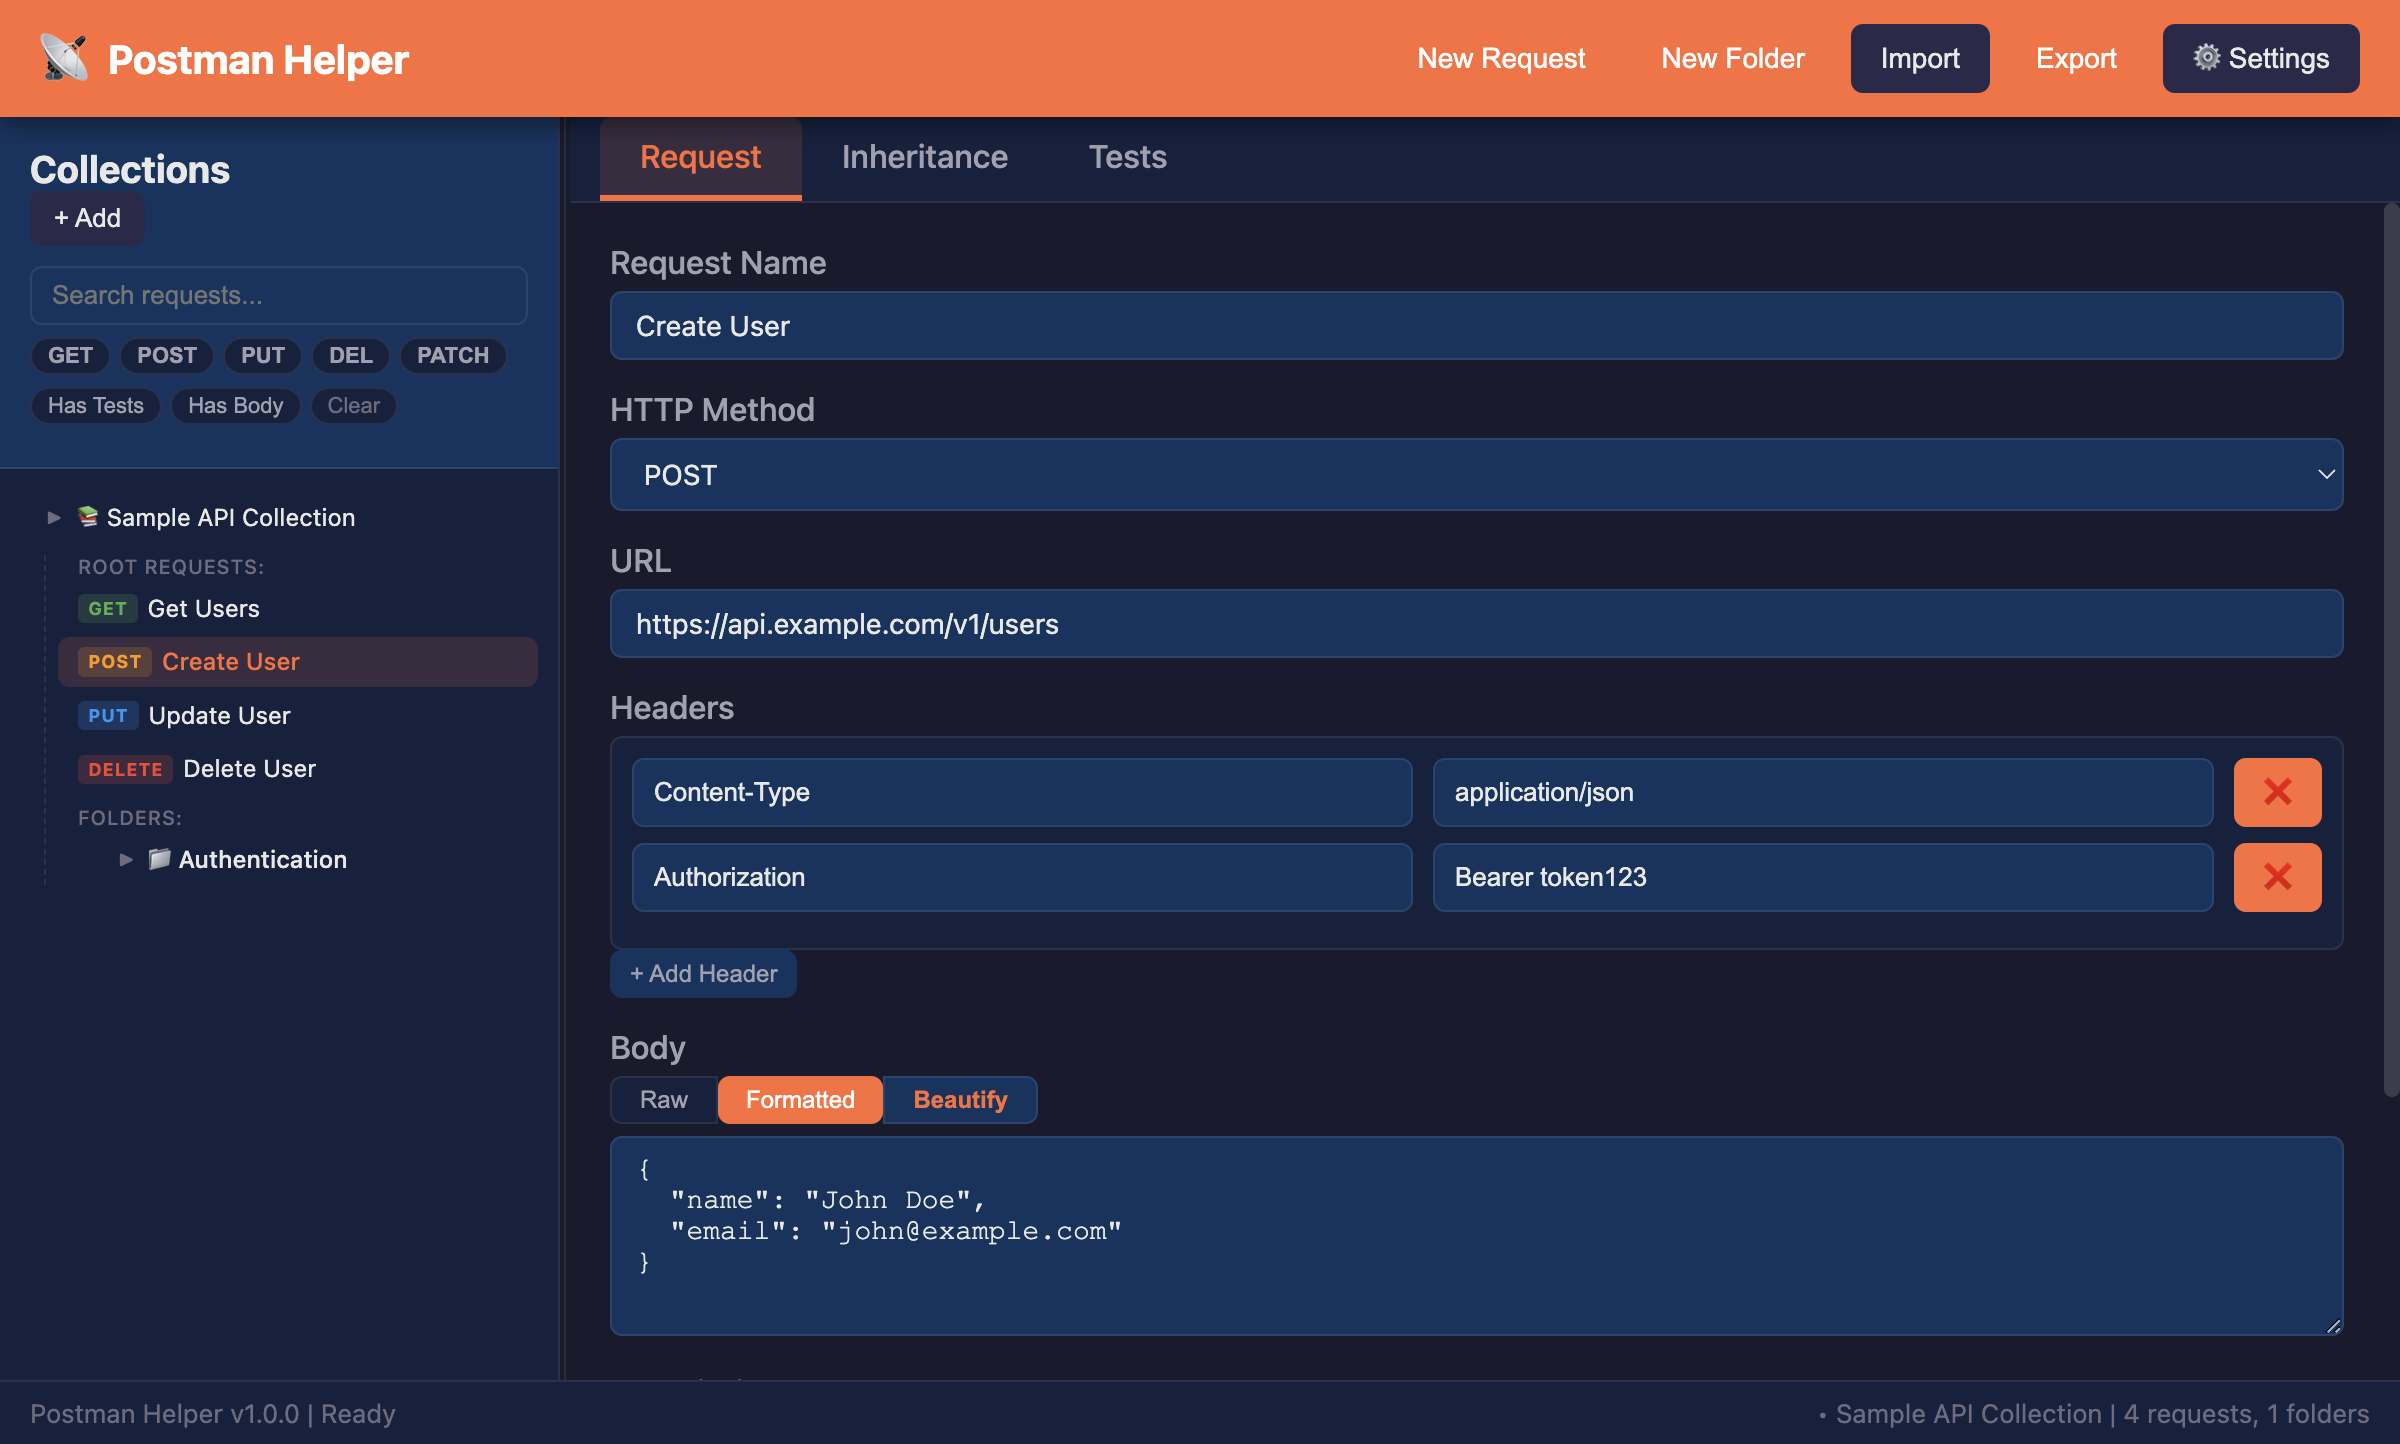
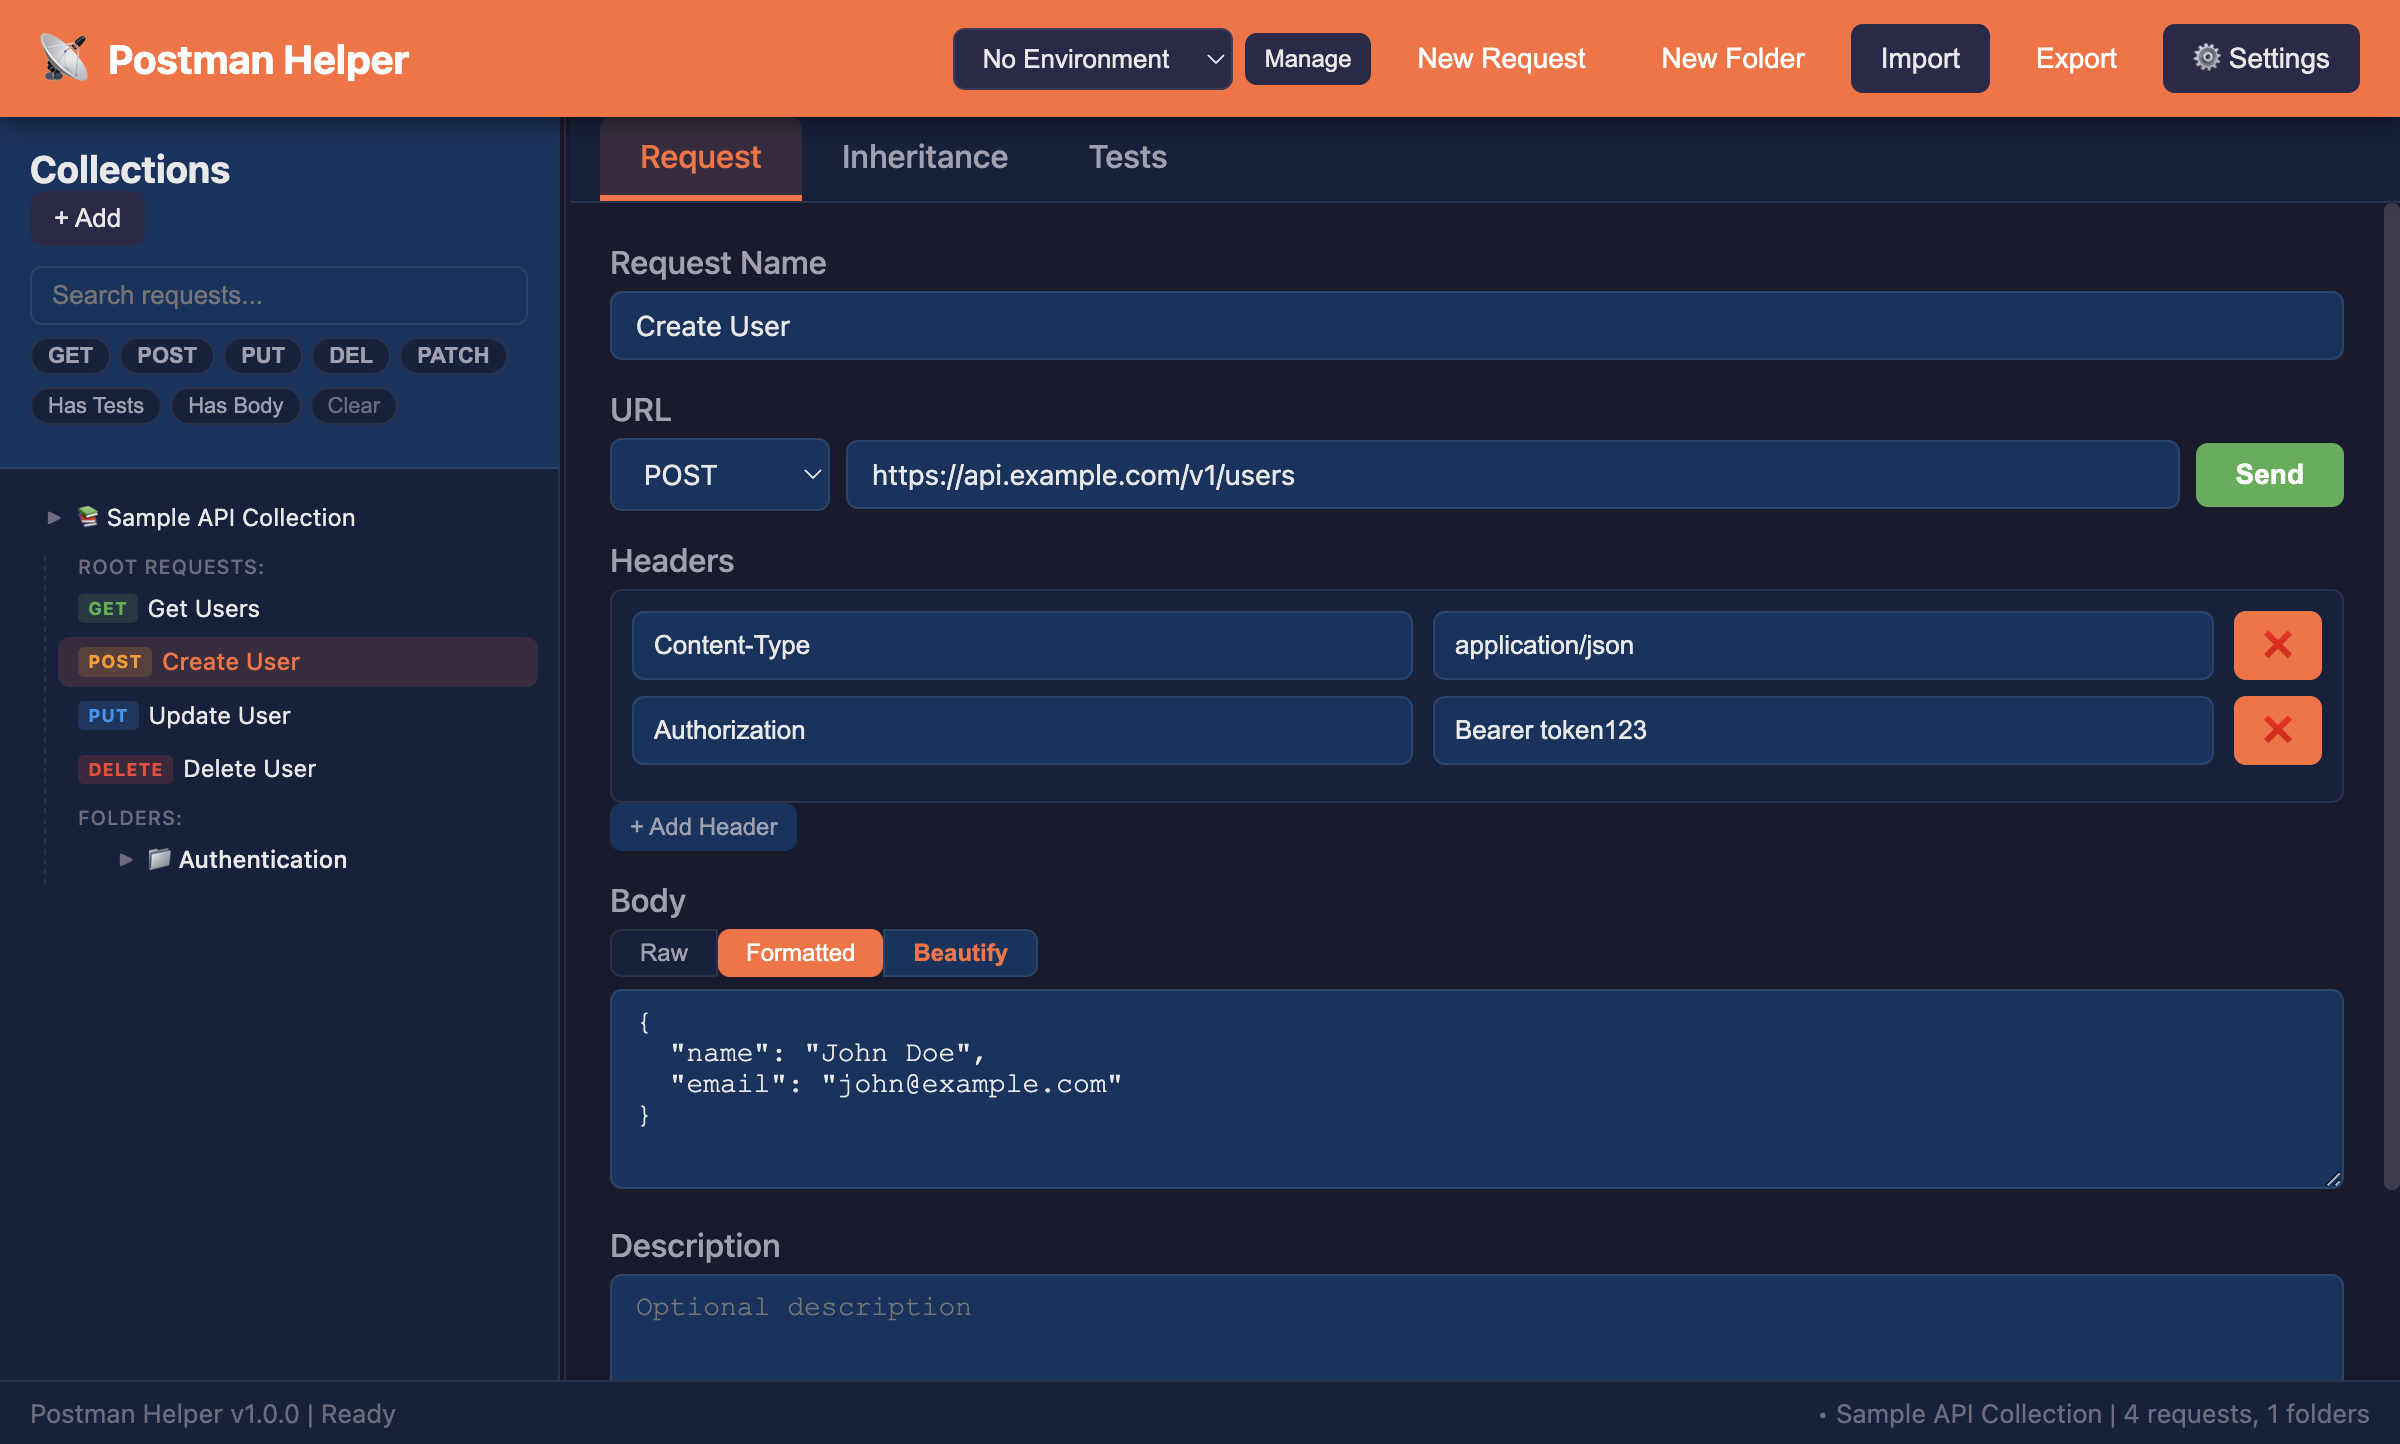
Update screenshots and fix screenshot script for new IPC handlers
- Add stub IPC handlers for send-request, auto-save, auto-load, clear-autosave
- Expose app instance as window.__app for screenshot script access
- Regenerate all 6 screenshots reflecting new UI (env selector, send button)

diff --git a/take_screenshots.js b/take_screenshots.js
@@ -20,6 +20,10 @@ async function takeScreenshots() {
     // Stub IPC handlers so the app doesn't crash
     ipcMain.handle('save-file', async () => ({ success: false }));
     ipcMain.handle('open-file', async () => ({ success: false }));
+    ipcMain.handle('send-request', async () => ({ success: false, error: 'Not available in screenshot mode' }));
+    ipcMain.handle('auto-save', async () => ({ success: true }));
+    ipcMain.handle('auto-load', async () => ({ success: false }));
+    ipcMain.handle('clear-autosave', async () => ({ success: true }));
 
     await win.loadFile('index.html');
     await delay(2000);

diff --git a/app.js b/app.js
@@ -3359,5 +3359,5 @@ document.head.appendChild(style);
 // Initialize the application when DOM is loaded
 document.addEventListener('DOMContentLoaded', () => {
     console.log('Postman Helper application starting...');
-    new PostmanHelperApp();
+    window.__app = new PostmanHelperApp();
 });
